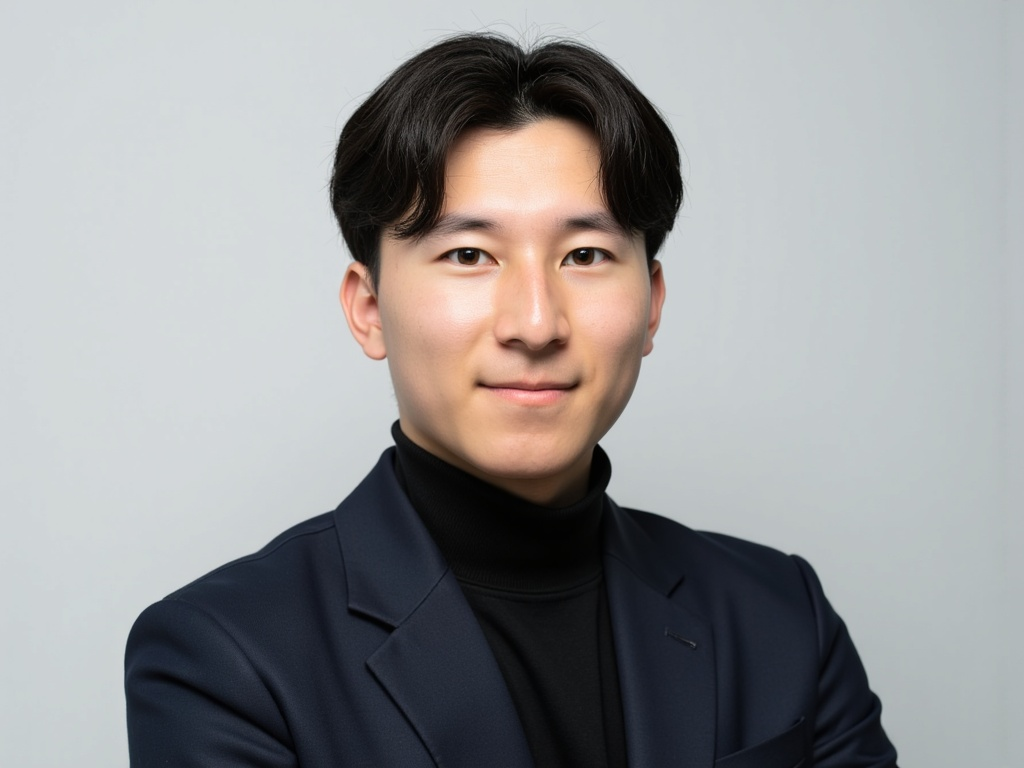
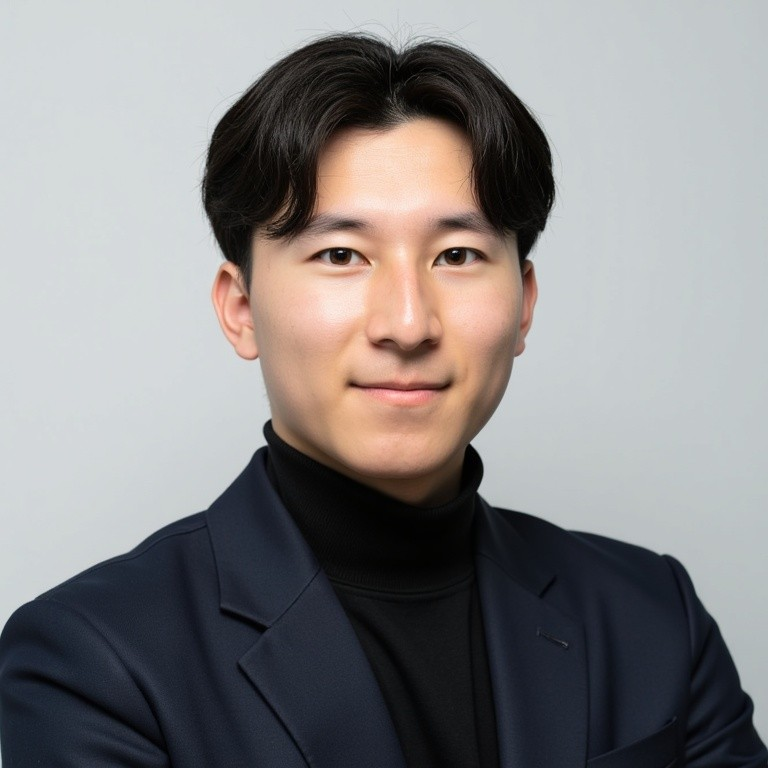
SNSアイコン、プロフィールの画像調整

diff --git a/index.html b/index.html
@@ -186,8 +186,8 @@
             display: flex;
             align-items: center;
             justify-content: center;
-            width: 32px;
-            height: 32px;
+            width: 40px;
+            height: 40px;
             border-radius: 50%;
             background-color: rgba(255, 255, 255, 0.1);
             overflow: hidden;
@@ -199,9 +199,10 @@
         }
         
         .social-links img {
-            width: 20px;
-            height: 20px;
+            width: 40px;
+            height: 40px;
             object-fit: cover;
+            border-radius: 50%; /* 丸型にする */
         }
         
         /* ハンバーガーメニュー */
@@ -237,10 +238,6 @@
             transform: translateY(-9px) rotate(-45deg);
         }
         
-        /* メニューのクローズボタン - デスクトップでは非表示 */
-        .menu-close {
-            display: none;
-        }
         
         /* モバイル用SNSアイコン - デスクトップでは非表示 */
         .mobile-social {
@@ -475,17 +472,6 @@
                 left: 0;
             }
             
-            /* メニューのクローズボタン - モバイルでのみ表示 */
-            .menu-close {
-                position: absolute;
-                top: 20px;
-                right: 20px;
-                color: white;
-                font-size: 24px;
-                cursor: pointer;
-                display: block;
-            }
-            
             /* ナビリンクのスタイル調整 */
             .nav-links li {
                 margin: 0;
@@ -504,6 +490,19 @@
             .nav-links a:hover {
                 background-color: rgba(255, 255, 255, 0.05);
                 padding-left: 35px;
+            }
+
+            .social-links {
+              display: flex;
+              gap: 5px;
+            }
+            
+            .social-links img,
+            .mobile-social img {
+                width: 30px;
+                height: 30px;
+                object-fit: cover; /* 縦横比を保ったまま切り抜き */
+                border-radius: 50%; /* 丸型にする */
             }
             
             /* モバイルでの SNS アイコンエリア */
@@ -525,11 +524,8 @@
                 border-radius: 50%;
                 background-color: rgba(255, 255, 255, 0.1);
             }
+
             
-            .mobile-social img {
-                width: 20px;
-                height: 20px;
-            }
             
             /* オーバーレイ背景 */
             .menu-overlay {
@@ -582,7 +578,6 @@
                     <span></span>
                 </div>
                 <ul class="nav-links">
-                    <div class="menu-close">×</div>
                     <li><a href="#top">トップ</a></li>
                     <li><a href="#profile">プロフィール</a></li>
                     <li><a href="#services">お受けしているお仕事</a></li>
@@ -596,7 +591,7 @@
                         <a href="https://zenn.dev/mojitakanori" target="_blank">
                             <img src="zenn-icon.png" alt="Zenn">
                         </a>
-                        <a href="#" target="_blank">
+                        <a href="https://works.do/GaOqPVL" target="_blank">
                             <img src="line-icon.png" alt="LINE">
                         </a>
                     </div>
@@ -608,7 +603,7 @@
                     <a href="https://zenn.dev/mojitakanori" target="_blank">
                         <img src="zenn-icon.png" alt="Zenn">
                     </a>
-                    <a href="#" target="_blank">
+                    <a href="https://works.do/GaOqPVL" target="_blank">
                         <img src="line-icon.png" alt="LINE">
                     </a>
                 </div>
@@ -797,7 +792,6 @@
         const menuToggle = document.querySelector('.menu-toggle');
         const navLinks = document.querySelector('.nav-links');
         const menuOverlay = document.querySelector('.menu-overlay');
-        const menuClose = document.querySelector('.menu-close');
         
         menuToggle.addEventListener('click', function() {
             this.classList.toggle('active');
